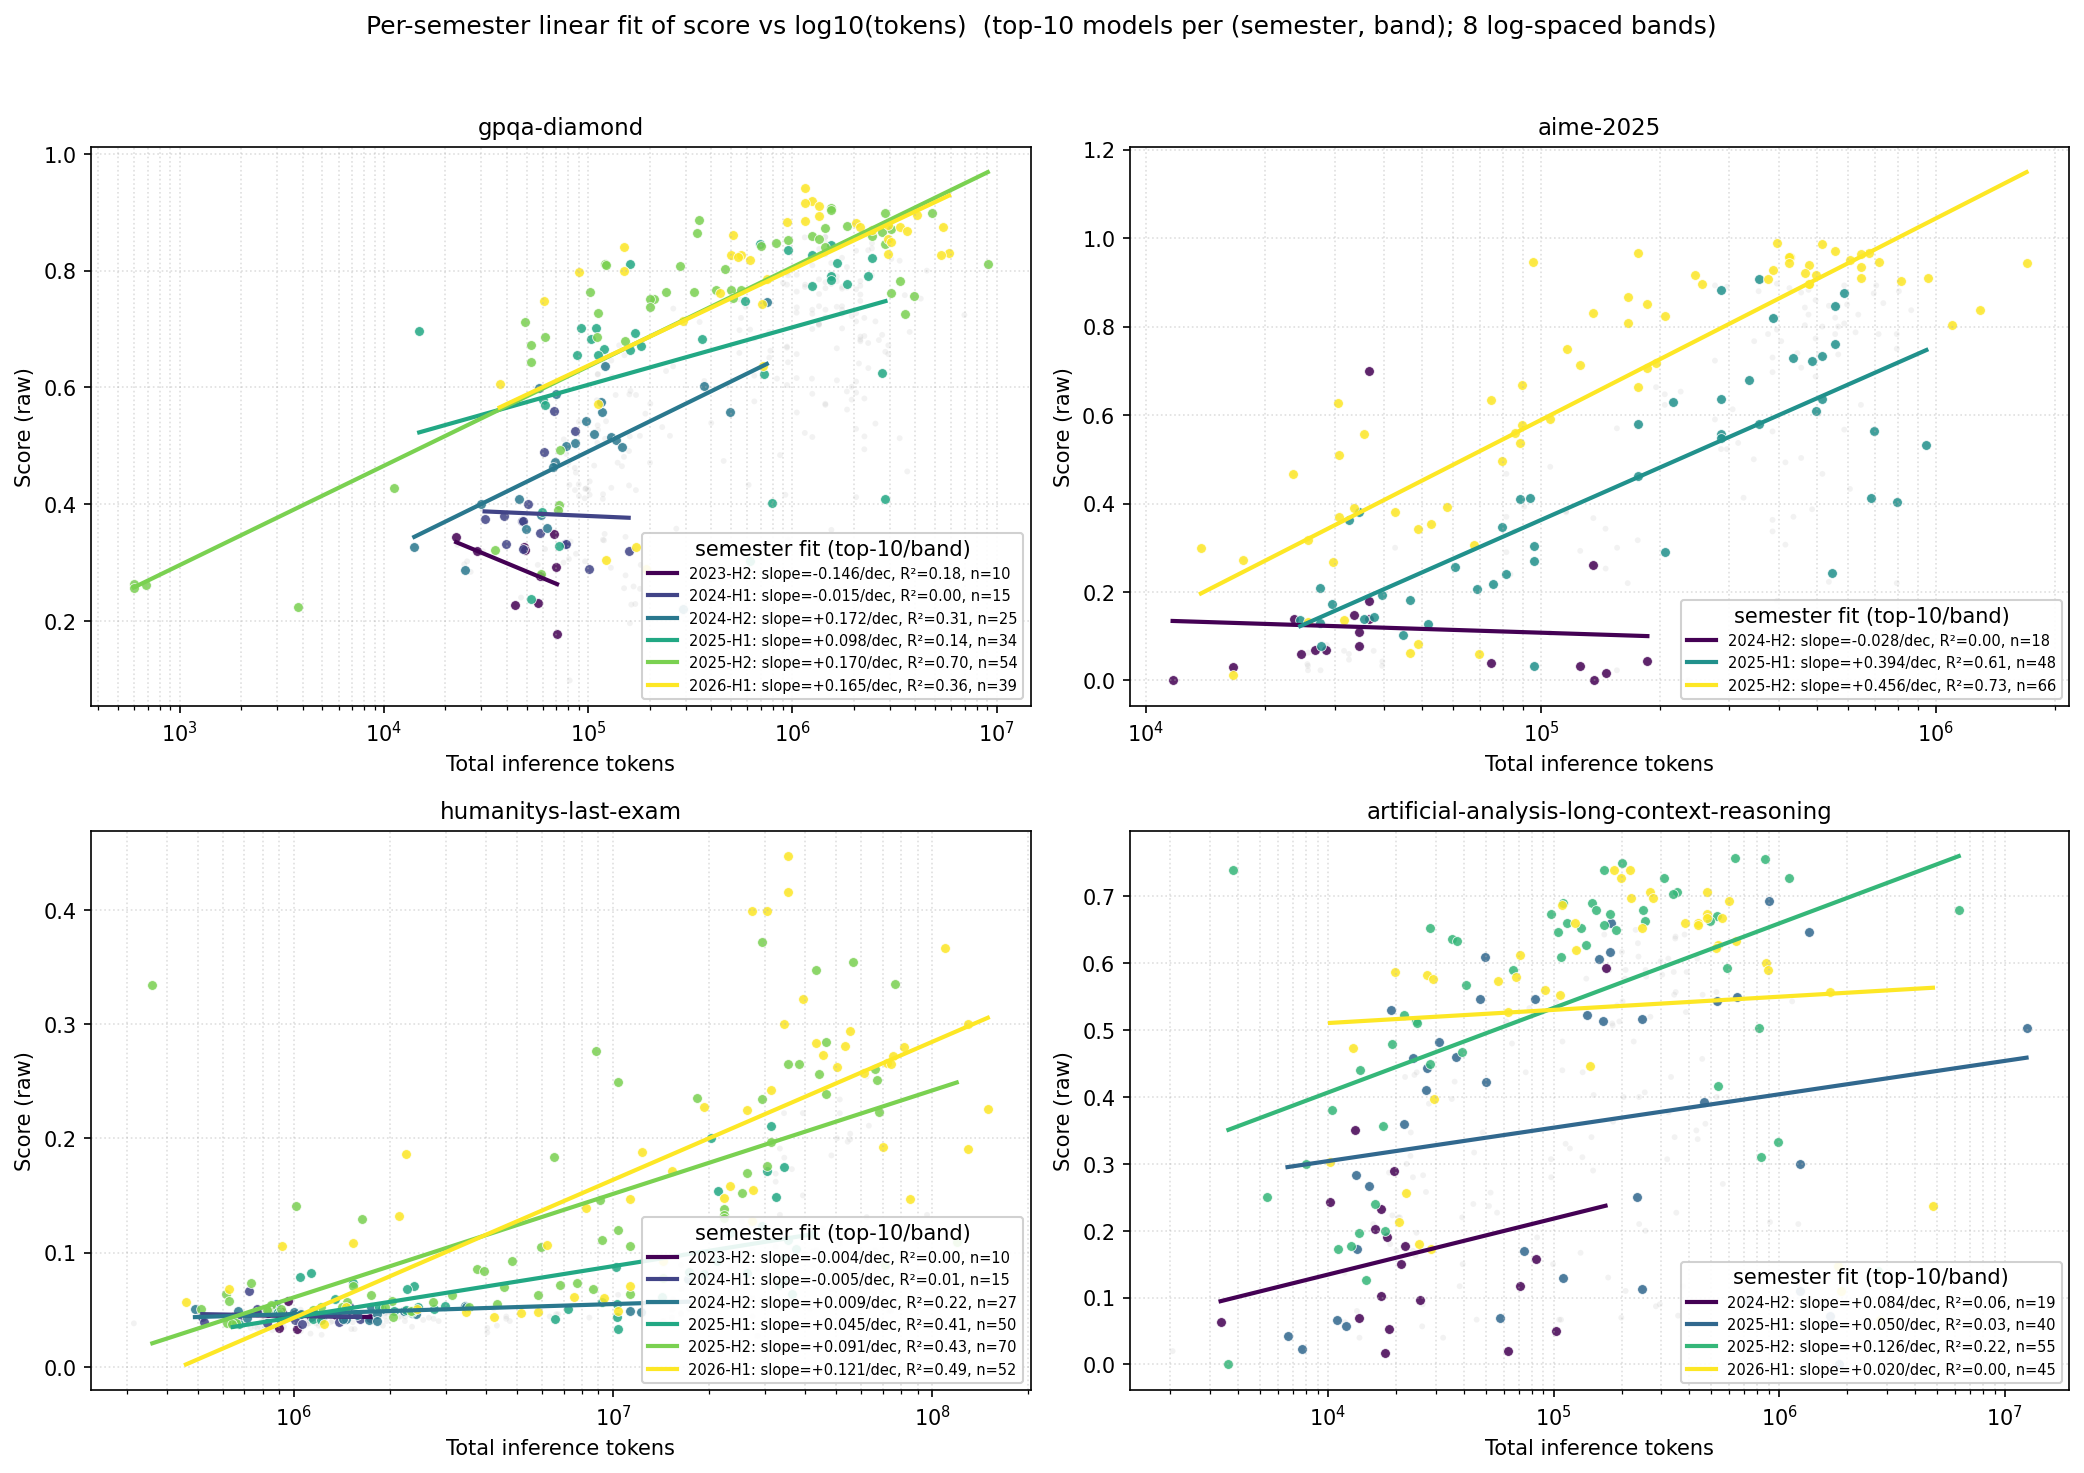
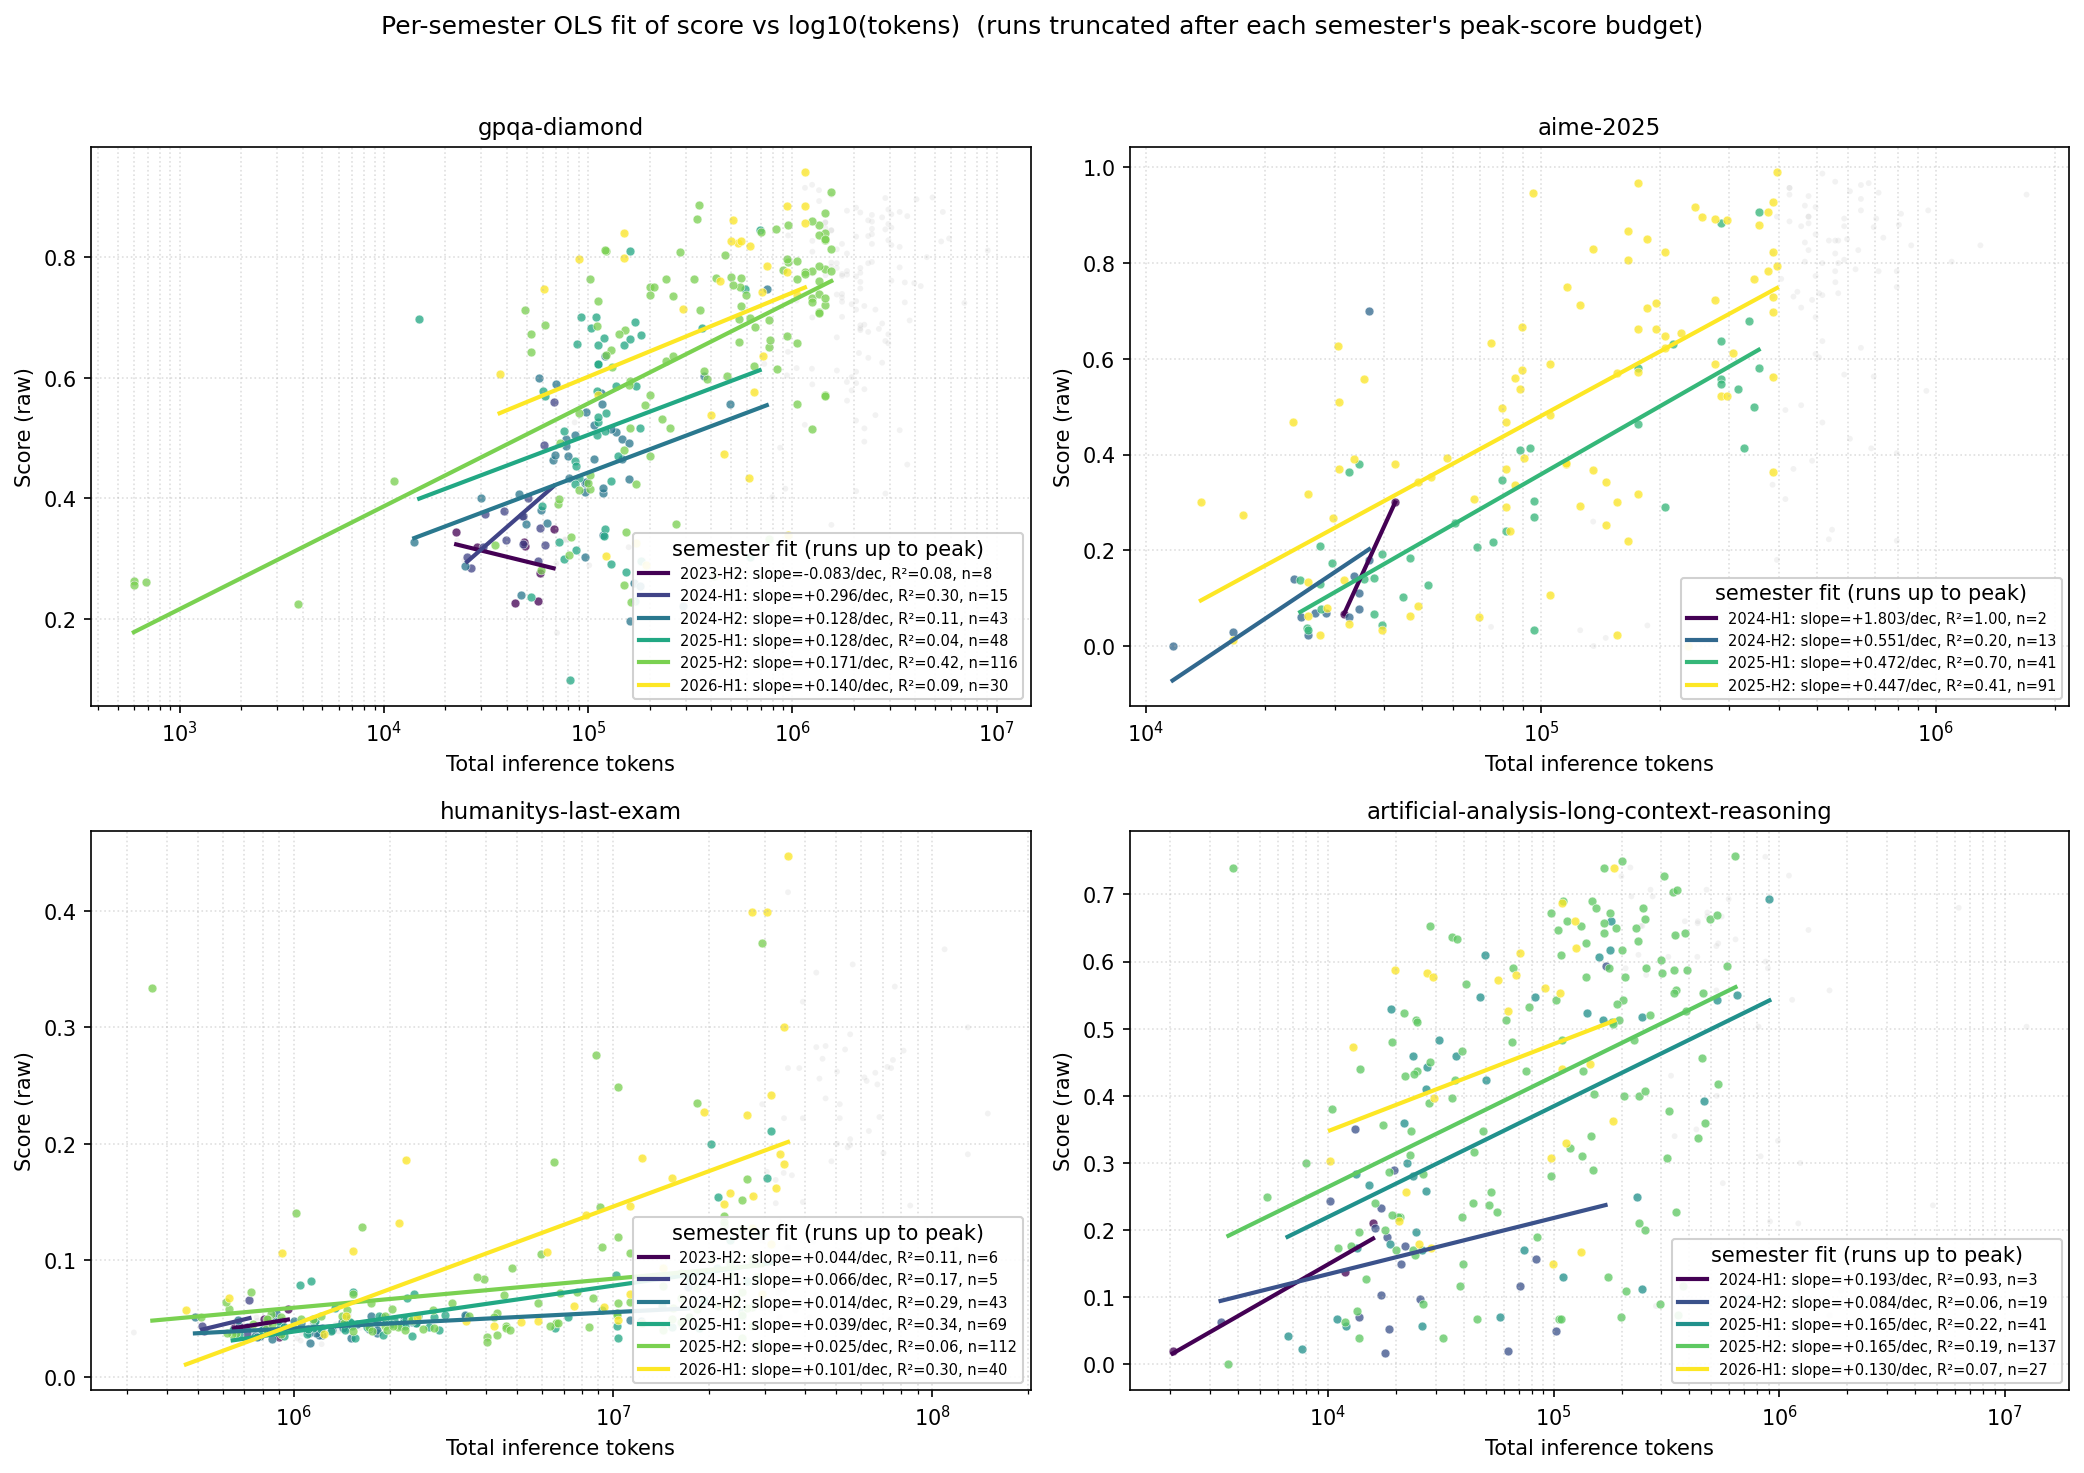
Refit per-semester lines on runs up to each semester's peak score
Replace the banded top-K selection in linear_fits_by_release_semester with a
per-semester truncate-after-peak rule: for each semester, drop every run with
more inference tokens than that semester's highest-scoring run, then OLS-fit
score vs log10(tokens) on the survivors.

Also mark the max tokens used by any model per semester (star marker) alongside
the argmax-tokens line in semester_fit_trends.

diff --git a/src/benchmark_vs_tokens/aa_evaluations/linear_fits_by_release_semester.py b/src/benchmark_vs_tokens/aa_evaluations/linear_fits_by_release_semester.py
@@ -2,11 +2,11 @@
 Score vs. inference tokens with one OLS line per half-year (semester).
 
 Procedure (per benchmark):
-  1. Bin runs into N_BANDS log-spaced inference-token bands.
-  2. Within each (semester, band) cell take the top-K runs by score
-     (one row per model — best run per model in the cell).
-  3. Fit a straight line score = a + b * log10(tokens) per semester
-     across all of that semester's top-K cell points.
+  1. For each semester, find the peak = the run with the highest score that
+     semester. Drop every run with more inference tokens than the peak run
+     (keep only runs up to and including the peak's token budget).
+  2. Fit a straight line score = a + b * log10(tokens) per semester across the
+     surviving runs.
 
 Output:
   output/benchmark_vs_tokens/aa_evaluations/linear_fits_by_release_semester.{png,csv}
@@ -30,9 +30,7 @@ BENCHMARKS = [
     "humanitys-last-exam",
     "artificial-analysis-long-context-reasoning",
 ]
-TOP_K_MODELS = 10           # top-K models per (semester, band) by best score
-N_BANDS = 8                  # log-spaced inference-token bands
-MIN_POINTS_FOR_FIT = 4       # need at least this many cell points to fit a line
+MIN_POINTS_FOR_FIT = 2       # need at least this many surviving runs to fit a line
 
 
 def _period_label(dt: pd.Series) -> pd.Series:
@@ -62,31 +60,24 @@ def _load(benchmark: str) -> pd.DataFrame:
     return ev
 
 
-def _top_per_cell(df: pd.DataFrame) -> pd.DataFrame:
-    """For each (period, band), one row per model = its best run in that cell,
-    keeping only the top-K models by score."""
-    best_per_cell_model = (
-        df.sort_values("score_raw", ascending=False)
-          .drop_duplicates(subset=["period", "band", "model_slug"])
-    )
-    return (
-        best_per_cell_model
-        .sort_values("score_raw", ascending=False)
-        .groupby(["period", "band"], observed=True)
-        .head(TOP_K_MODELS)
-    )
+def _truncate_after_peak(sub: pd.DataFrame) -> pd.DataFrame:
+    """Keep only runs with at most as many tokens as the highest-scoring run
+    that semester (drop everything past the peak)."""
+    peak_log_tokens = sub.loc[sub["score_raw"].idxmax(), "log_tokens"]
+    return sub[sub["log_tokens"] <= peak_log_tokens]
 
 
-def _fit_per_period(top_pts: pd.DataFrame) -> tuple[pd.DataFrame, dict[str, pd.DataFrame]]:
-    """Fit OLS per semester on its top-K-per-band points."""
+def _fit_per_period(df: pd.DataFrame) -> tuple[pd.DataFrame, dict[str, pd.DataFrame]]:
+    """Fit OLS per semester on the runs up to that semester's peak-score budget."""
     fits = []
     points: dict[str, pd.DataFrame] = {}
-    for period, sub in top_pts.groupby("period"):
-        n = len(sub)
+    for period, sub in df.groupby("period"):
+        kept = _truncate_after_peak(sub)
+        n = len(kept)
         if n < MIN_POINTS_FOR_FIT:
             continue
-        x = sub["log_tokens"].to_numpy()
-        y = sub["score_raw"].to_numpy()
+        x = kept["log_tokens"].to_numpy()
+        y = kept["score_raw"].to_numpy()
         if x.max() - x.min() < 1e-9:
             continue
         b, a = np.polyfit(x, y, 1)
@@ -97,15 +88,15 @@ def _fit_per_period(top_pts: pd.DataFrame) -> tuple[pd.DataFrame, dict[str, pd.D
 
         fits.append({
             "period": period,
-            "n_bands_used": int(sub["band"].nunique()),
             "n_fit_points": n,
+            "n_models": int(kept["model_slug"].nunique()),
             "intercept": a,
             "slope_per_decade": b,
             "r2": r2,
             "x_min": float(x.min()),
             "x_max": float(x.max()),
         })
-        points[period] = sub
+        points[period] = kept
     return pd.DataFrame(fits), points
 
 
@@ -124,7 +115,7 @@ def _draw_panel(ax, benchmark: str, df: pd.DataFrame,
         pts = points[period]
         ax.scatter(
             pts["total_output_tokens"], pts["score_raw"],
-            s=22, color=color, alpha=0.85, edgecolor="white", linewidth=0.4,
+            s=18, color=color, alpha=0.75, edgecolor="white", linewidth=0.3,
         )
         xs = np.linspace(row["x_min"], row["x_max"], 50)
         ys = row["intercept"] + row["slope_per_decade"] * xs
@@ -141,7 +132,7 @@ def _draw_panel(ax, benchmark: str, df: pd.DataFrame,
     ax.set_ylabel("Score (raw)")
     ax.set_title(benchmark, fontsize=11)
     ax.grid(True, which="both", linestyle=":", alpha=0.4)
-    ax.legend(title=f"semester fit (top-{TOP_K_MODELS}/band)",
+    ax.legend(title="semester fit (runs up to peak)",
               loc="lower right", fontsize=7, framealpha=0.9)
 
 
@@ -153,14 +144,9 @@ def main(benchmarks: list[str] = BENCHMARKS) -> None:
         if df.empty:
             print(f"skipping {b!r} (no rows)")
             continue
-        edges = np.linspace(df["log_tokens"].min(), df["log_tokens"].max(),
-                            N_BANDS + 1)
-        df["band"] = pd.cut(df["log_tokens"], bins=edges,
-                            include_lowest=True, labels=False)
-        top_pts = _top_per_cell(df)
-        fits, points = _fit_per_period(top_pts)
+        fits, points = _fit_per_period(df)
         if fits.empty:
-            print(f"skipping {b!r} (no period had enough top-K points)")
+            print(f"skipping {b!r} (no period had enough points)")
             continue
         panels.append((b, df, fits, points))
         all_fits.append(fits.assign(benchmark=b))
@@ -180,9 +166,8 @@ def main(benchmarks: list[str] = BENCHMARKS) -> None:
         axes[j // cols][j % cols].set_visible(False)
 
     fig.suptitle(
-        f"Per-semester linear fit of score vs log10(tokens)  "
-        f"(top-{TOP_K_MODELS} models per (semester, band); "
-        f"{N_BANDS} log-spaced bands)",
+        "Per-semester OLS fit of score vs log10(tokens)  "
+        "(runs truncated after each semester's peak-score budget)",
         fontsize=12,
     )
     fig.tight_layout(rect=(0, 0, 1, 0.96))

diff --git a/src/test_time_scaling_experiments/semester_fit_trends.py b/src/test_time_scaling_experiments/semester_fit_trends.py
@@ -64,8 +64,14 @@ def _argmax_tokens_per_cell() -> pd.DataFrame:
         columns={"total_output_tokens": "argmax_tokens",
                  "score_raw": "argmax_score",
                  "model_slug": "argmax_model"}
+    ).reset_index(drop=True)
+
+    # Max inference tokens used by any model in each (benchmark, semester).
+    max_tok = (
+        ev.groupby(["benchmark", "period"])["total_output_tokens"]
+          .max().reset_index(name="max_tokens")
     )
-    return out.reset_index(drop=True)
+    return out.merge(max_tok, on=["benchmark", "period"], how="left")
 
 
 def main() -> None:
@@ -111,11 +117,17 @@ def main() -> None:
 
         am = sub.dropna(subset=["argmax_tokens"])
         ax_a.plot(am["period_decimal"], am["argmax_tokens"],
-                  "o-", color=color, linewidth=1.8, markersize=6)
+                  "o-", color=color, linewidth=1.8, markersize=6,
+                  label="argmax tokens")
+        mam = sub.dropna(subset=["max_tokens"])
+        ax_a.scatter(mam["period_decimal"], mam["max_tokens"],
+                     marker="*", color=color, s=130, edgecolor="white",
+                     linewidth=0.5, zorder=4, label="max tokens (any model)")
         ax_a.set_yscale("log")
-        ax_a.set_ylabel("Argmax tokens")
-        ax_a.set_title(f"{b} — argmax tokens")
+        ax_a.set_ylabel("Tokens")
+        ax_a.set_title(f"{b} — tokens")
         ax_a.grid(True, which="both", alpha=0.3)
+        ax_a.legend(fontsize=7, loc="lower right", framealpha=0.9)
 
     for ax in axes[-1]:
         ax.set_xticks(semester_ticks)
@@ -132,7 +144,7 @@ def main() -> None:
 
     out_csv = OUT_DIR / "semester_fit_trends.csv"
     df[["benchmark", "period", "slope_per_decade", "intercept",
-        "argmax_tokens", "argmax_score", "argmax_model",
+        "argmax_tokens", "argmax_score", "argmax_model", "max_tokens",
         "delta_slope", "delta_intercept", "argmax_token_ratio",
         "r2", "n_fit_points"]].to_csv(out_csv, index=False)
 
